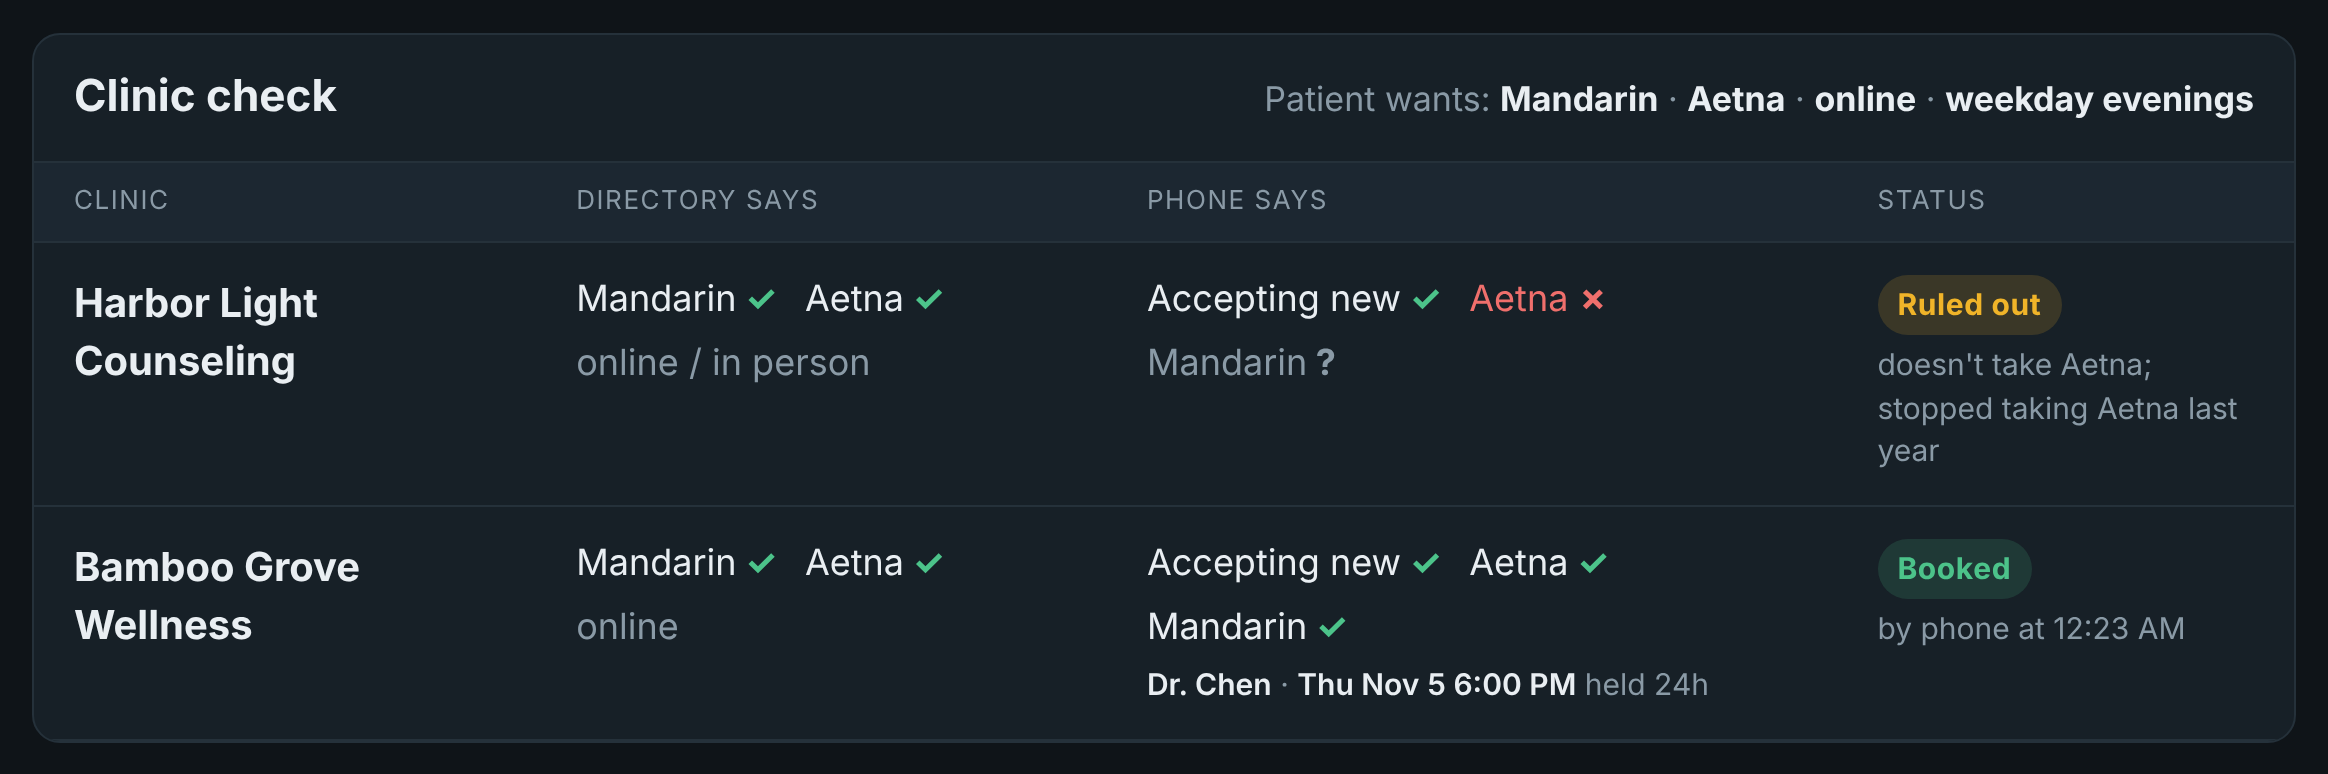
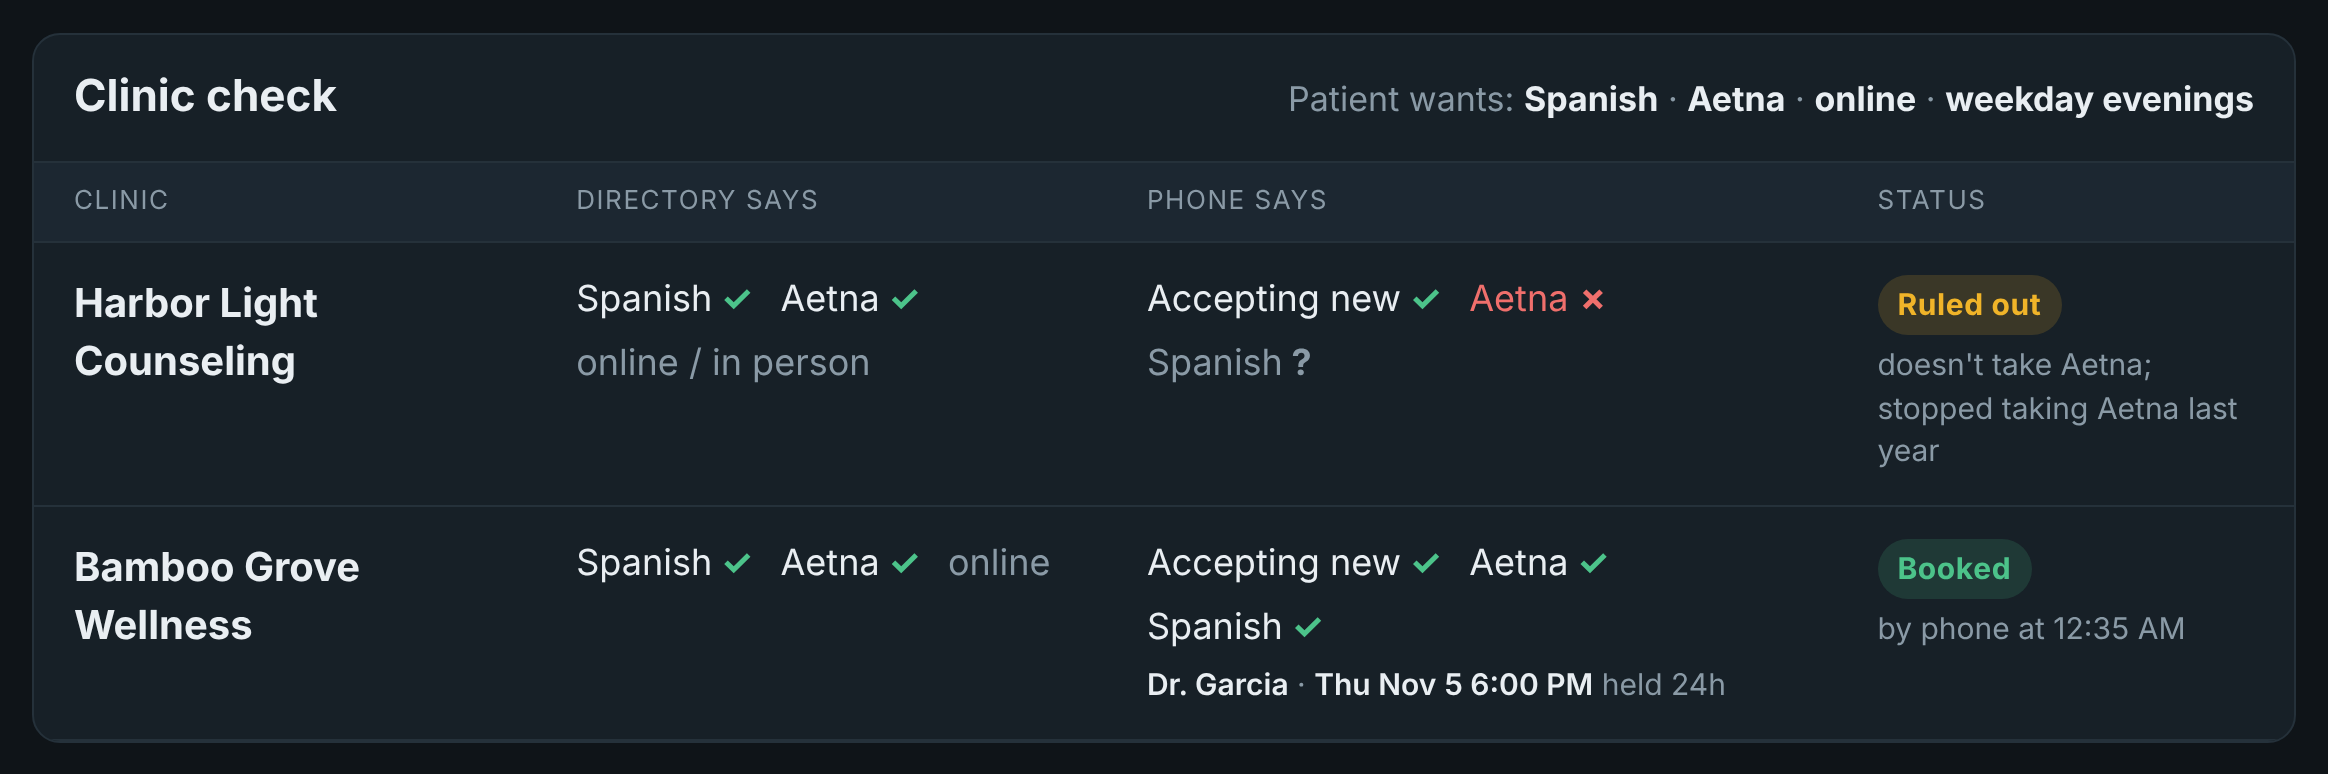
Spanish-speaking demo clinics and screenshot

diff --git a/tests/test_api.py b/tests/test_api.py
@@ -88,8 +88,13 @@ def test_unrecognised_insurance_asks_to_spell():
 
 
 def test_no_match_is_honest():
-    r = search(language="Spanish", insurance="Cigna")
+    r = search(language="Korean", insurance="Aetna")
     assert r["ok"] and r["matches"] == []
+
+
+def test_spanish_demo_matches_same_two_clinics():
+    r = search(language="Spanish")
+    assert [m["clinic_id"] for m in r["matches"]] == ["C001", "C002"]
 
 
 def test_missing_field_refused():
